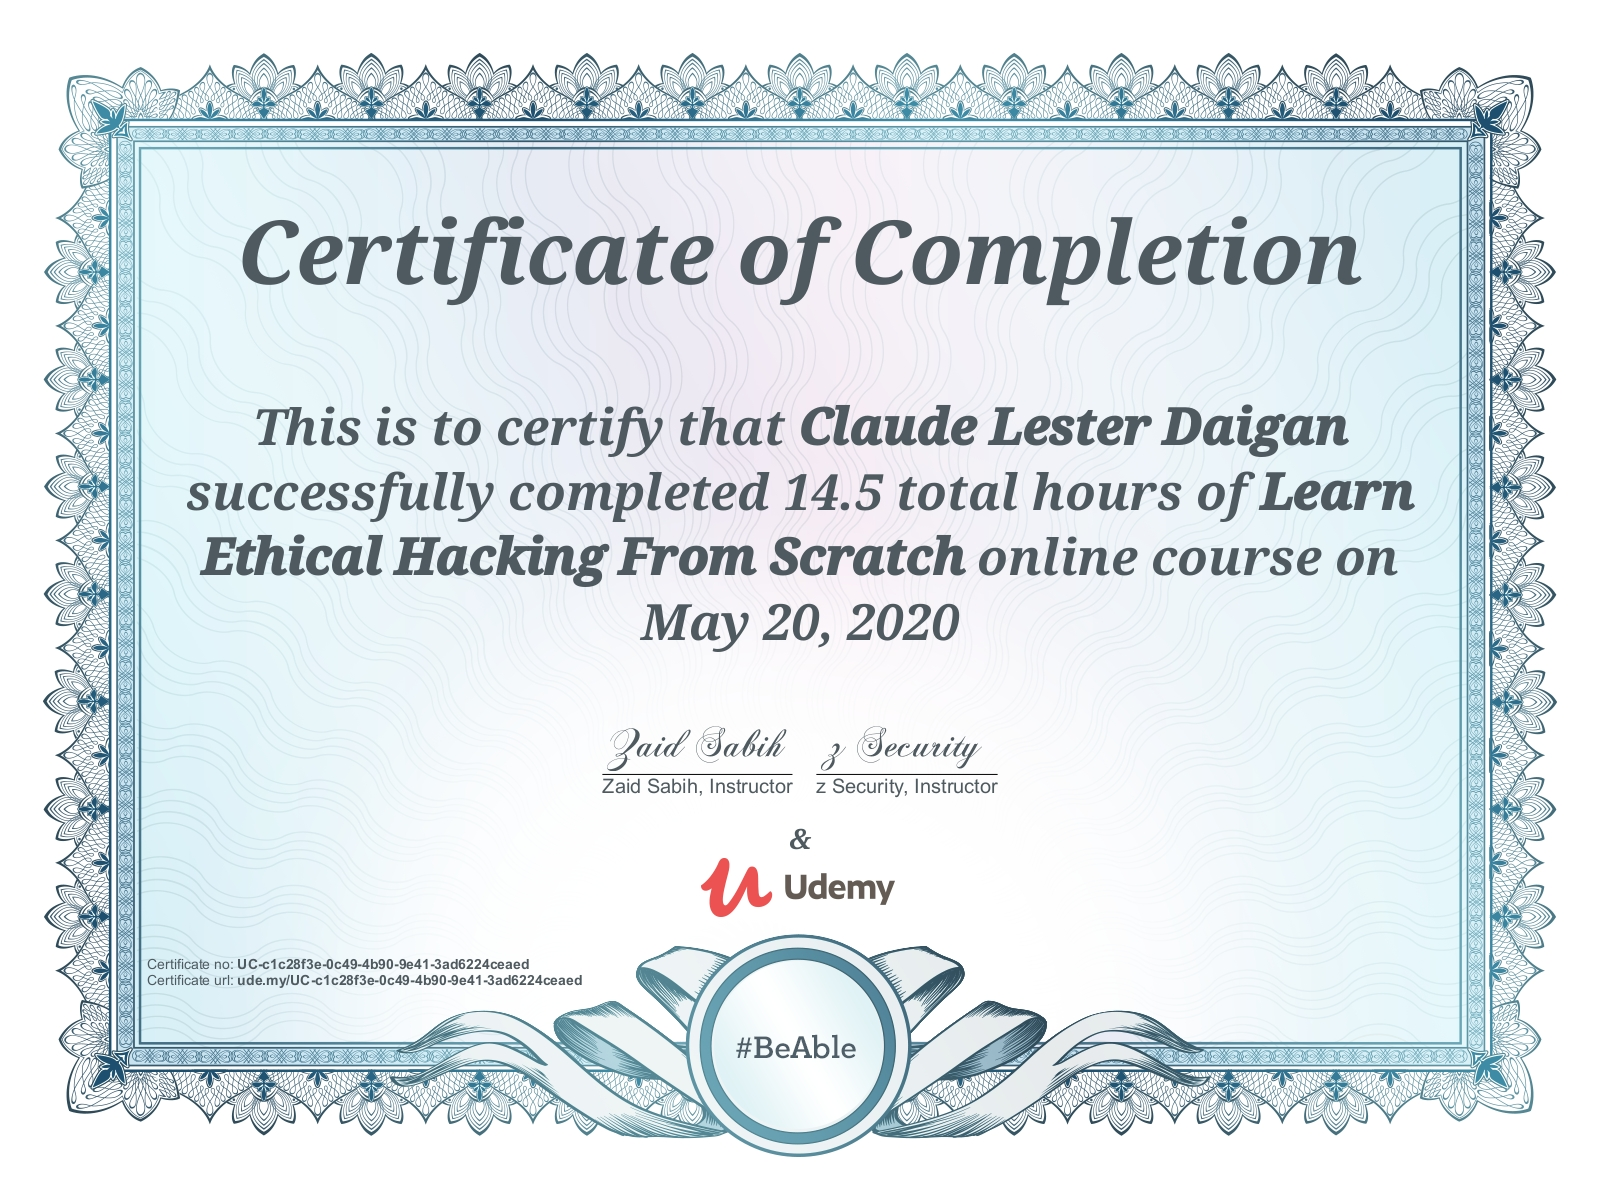
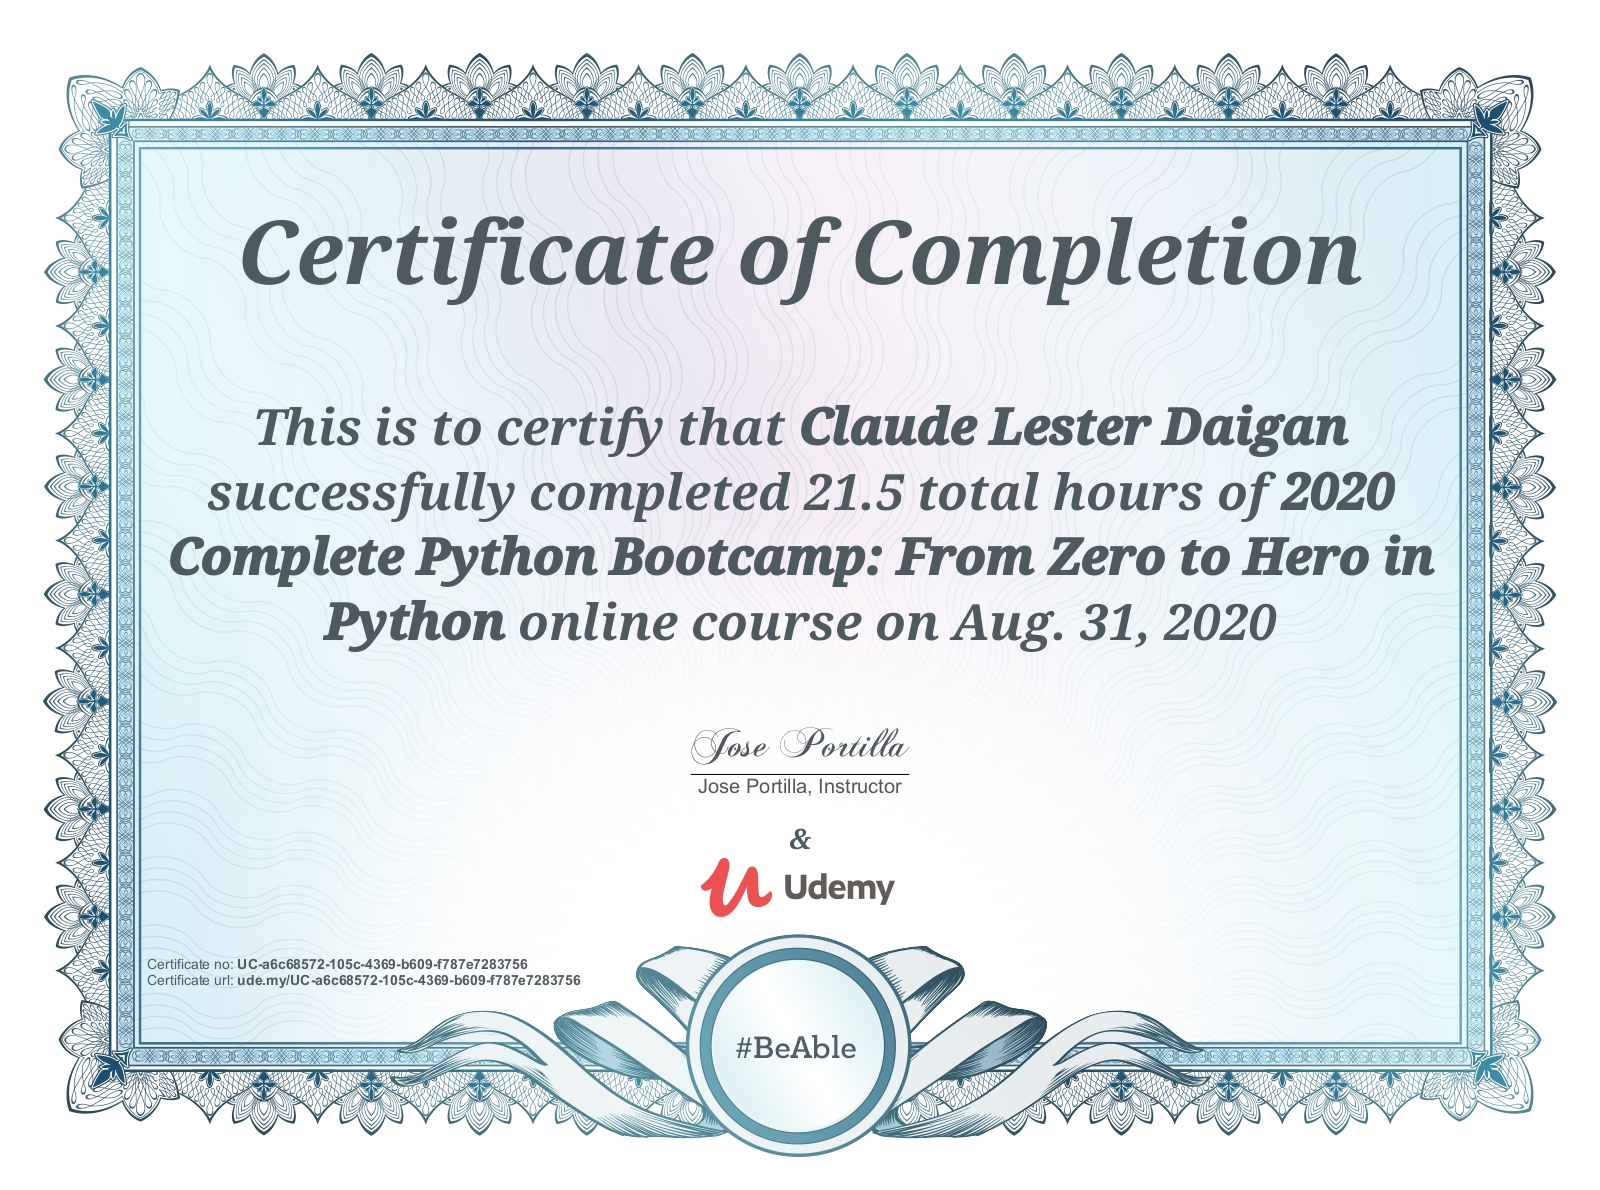
updated

Changed region(s): [[0.0938, 0.3731, 0.9062, 0.5597], [0.375, 0.5908, 0.625, 0.684], [0.1875, 0.8084, 0.375, 0.8395]]

diff --git a/src/config.ts b/src/config.ts
@@ -267,7 +267,7 @@ export const siteConfig = {
       issuer: "Udemy",
       date: "August 2020",
       image:"udemy.jpg",
-      link: "udemy.jpg",
+      link: "https://drive.google.com/file/d/1PE71nnnq_YrvmHUBWOac6xnKDtPI9Gdk/view?usp=sharing",
     },
     {
       title: "Cybersecurty",
